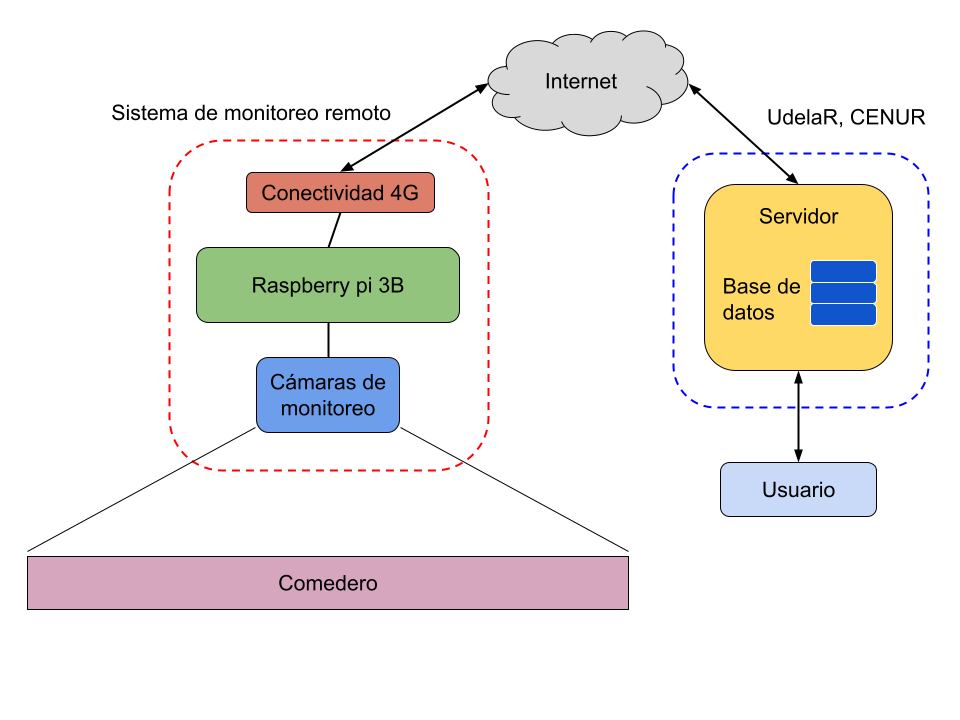
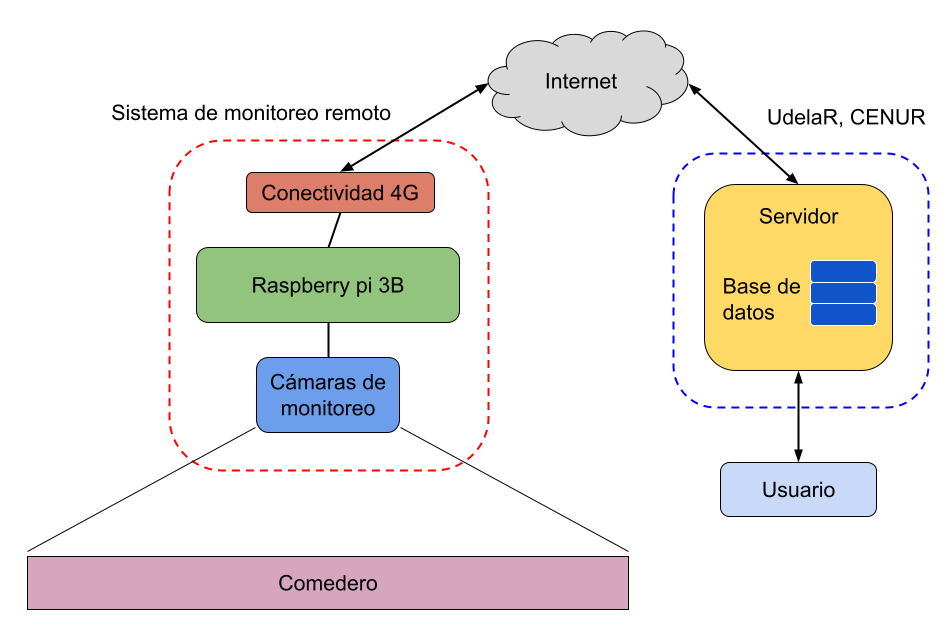
se corrige figura1

diff --git a/CIBS/ejercicio_1_ciberkillchain_ataque/Entrega.md b/CIBS/ejercicio_1_ciberkillchain_ataque/Entrega.md
@@ -7,7 +7,7 @@ Denis J. Genero
 ## Sistema victima
 Consta de un servidor central dispuesto en el CENUR Litoral Norte (UdelaR) de la ciudad de Paysandú (Uruguay) que se conecta con una Raspberry Pi 3B y obtiene imágenes a partir de cámaras IP, en un rodeo lechero para estimar el consumo de alimento. El esquema se puede observar en la siguiente figura:
 
-![Figura 1](Imagenes/Figura1)
+![Figura 1](/Imagenes/Figura1)
 
 ## Resolución
 A continuación se describen los pasos del ataque.
